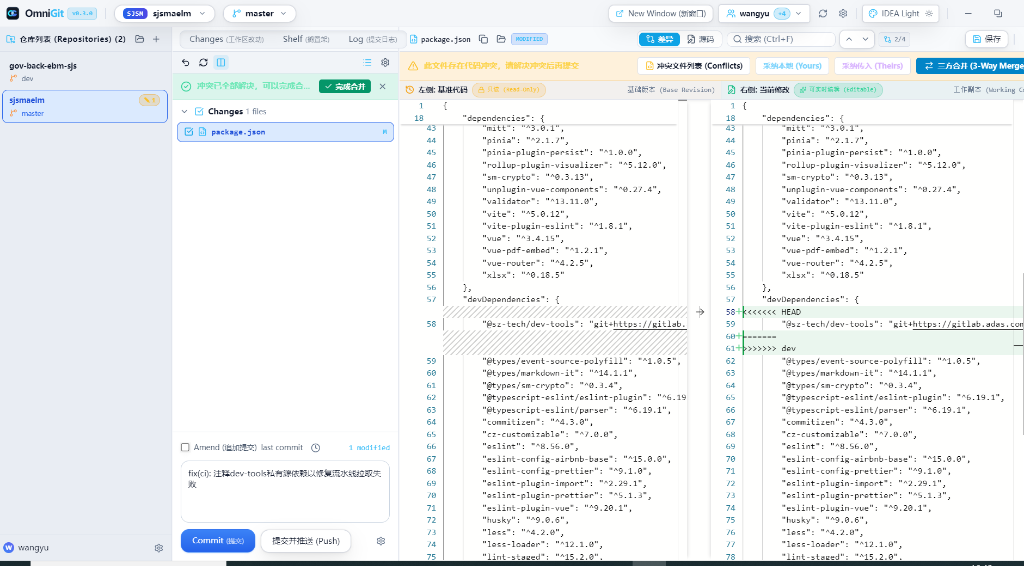
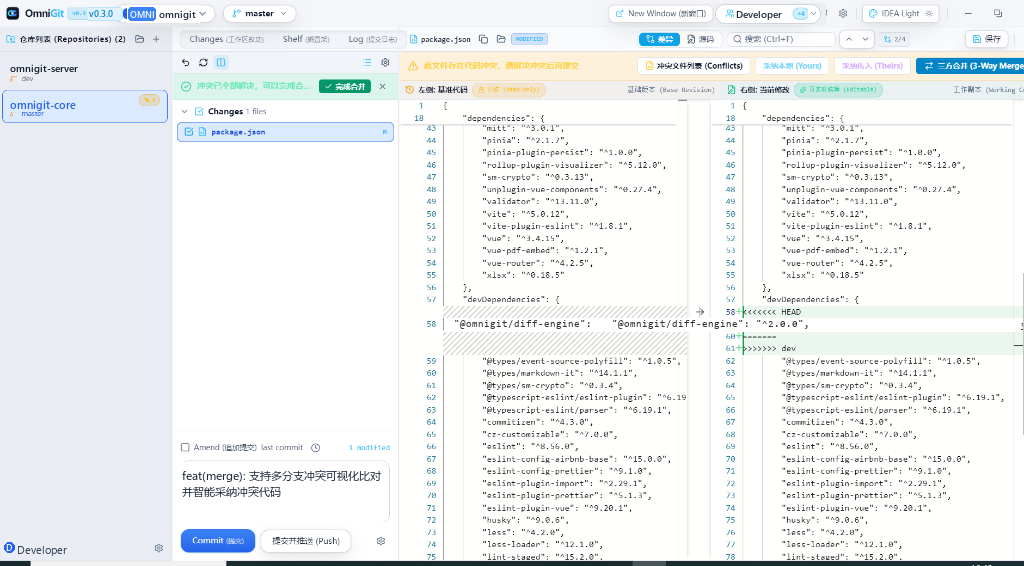
docs: replace internal project names with standard omnigit demo in preview screenshot

diff --git a/scripts/patch_screenshot.py b/scripts/patch_screenshot.py
@@ -1,0 +1,98 @@
+import os
+from PIL import Image, ImageDraw, ImageFont
+
+def patch_screenshot():
+    src_path = 'd:/projects/OmniGit/docs/images/omnigit_workbench_preview.png'
+    im = Image.open(src_path).convert('RGBA')
+
+    # Reusable icons from original image
+    # User icon from top user pill: original at x=722 to 735, y=8 to 19
+    user_icon = im.crop((722, 8, 735, 19))
+    # '+4' badge from user pill: original at x=771 to 789, y=7 to 20
+    badge_plus4 = im.crop((771, 7, 789, 20))
+
+    draw = ImageDraw.Draw(im)
+
+    # Windows Fonts
+    font_segoe_11 = ImageFont.truetype('C:/Windows/Fonts/segoeui.ttf', 11)
+    font_segoe_10 = ImageFont.truetype('C:/Windows/Fonts/segoeui.ttf', 10)
+    font_segoe_bold_11 = ImageFont.truetype('C:/Windows/Fonts/seguisb.ttf', 11)
+    font_segoe_bold_10 = ImageFont.truetype('C:/Windows/Fonts/seguisb.ttf', 10)
+    font_segoe_bold_9 = ImageFont.truetype('C:/Windows/Fonts/seguisb.ttf', 9)
+    font_consola_10 = ImageFont.truetype('C:/Windows/Fonts/consola.ttf', 10)
+    font_yahei_11 = ImageFont.truetype('C:/Windows/Fonts/msyh.ttc', 11)
+
+    TOP_BAR_BG = (237, 238, 242, 255)
+    SIDEBAR_BG = (233, 237, 243, 255)
+    ACTIVE_CARD_BG = (219, 234, 254, 255)
+
+    # =========================================================================
+    # 1. Top Bar: Version Badge (v0.1.0 -> v0.3.0)
+    # =========================================================================
+    draw.rounded_rectangle((86, 7, 122, 20), radius=3, fill=(224, 242, 254, 255), outline=(186, 230, 253, 255))
+    draw.text((89, 7), 'v0.3.0', font=font_segoe_bold_9, fill=(2, 132, 199, 255))
+
+    # =========================================================================
+    # 2. Top Bar: Active Repo Pill (SJSM sjsmaelm -> OMNI omnigit)
+    # =========================================================================
+    draw.rectangle((127, 5, 199, 22), fill=(255, 255, 255, 255))
+    draw.rounded_rectangle((128, 7, 155, 20), radius=3, fill=(59, 130, 246, 255))
+    draw.text((130, 8), 'OMNI', font=font_segoe_bold_9, fill=(255, 255, 255, 255))
+    draw.text((159, 7), 'omnigit', font=font_segoe_bold_10, fill=(30, 41, 59, 255))
+    draw.line([(199, 12), (202, 15), (205, 12)], fill=(148, 163, 184, 255), width=1)
+
+    # =========================================================================
+    # 3. Top Bar: User Pill (wangyu -> Developer)
+    # =========================================================================
+    draw.rectangle((714, 3, 825, 24), fill=TOP_BAR_BG)
+    draw.rounded_rectangle((715, 4, 820, 23), radius=9, fill=(255, 255, 255, 255), outline=(209, 213, 219, 255))
+    im.paste(user_icon, (721, 8), user_icon)
+    draw.text((736, 7), 'Developer', font=font_segoe_bold_10, fill=(30, 41, 59, 255))
+    im.paste(badge_plus4, (790, 7), badge_plus4)
+    draw.line([(811, 12), (813, 14), (815, 12)], fill=(148, 163, 184, 255), width=1)
+
+    # =========================================================================
+    # 4. Left Sidebar: Repo 1 (gov-back-ebm-sjs -> omnigit-server)
+    # =========================================================================
+    draw.rectangle((8, 60, 140, 75), fill=SIDEBAR_BG)
+    draw.text((10, 61), 'omnigit-server', font=font_segoe_bold_10, fill=(15, 23, 42, 255))
+
+    # =========================================================================
+    # 5. Left Sidebar: Repo 2 Active Card (sjsmaelm -> omnigit-core)
+    # =========================================================================
+    draw.rectangle((8, 96, 115, 111), fill=ACTIVE_CARD_BG)
+    draw.text((10, 97), 'omnigit-core', font=font_segoe_bold_11, fill=(37, 99, 235, 255))
+
+    # =========================================================================
+    # 6. Left Sidebar: Bottom User Profile (wangyu -> Developer)
+    # =========================================================================
+    draw.rectangle((1, 538, 75, 558), fill=SIDEBAR_BG)
+    draw.ellipse((4, 542, 14, 552), fill=(37, 99, 235, 255))
+    draw.text((6, 541), 'D', font=font_segoe_bold_9, fill=(255, 255, 255, 255))
+    draw.text((17, 542), 'Developer', font=font_segoe_11, fill=(51, 65, 85, 255))
+
+    # =========================================================================
+    # 7. Commit Message Textarea
+    # =========================================================================
+    draw.rectangle((175, 462, 382, 522), fill=(255, 255, 255, 255))
+    draw.text((182, 468), 'feat(merge): 支持多分支冲突可视化比对', font=font_yahei_11, fill=(30, 41, 59, 255))
+    draw.text((182, 484), '并智能采纳冲突代码', font=font_yahei_11, fill=(30, 41, 59, 255))
+
+    # =========================================================================
+    # 8. Diff Editor: Line 58/59 Conflict code
+    # =========================================================================
+    # Left pane line 58: clear white strip from x=444 all the way to x=684
+    draw.rectangle((444, 318, 684, 331), fill=(255, 255, 255, 255))
+    draw.text((454, 319), '"@omnigit/diff-engine": "^1.2.0",', font=font_consola_10, fill=(50, 50, 50, 255))
+
+    # Right pane line 59: full white strip from x=591 to 1020, y=318 to 331
+    draw.rectangle((591, 318, 1020, 331), fill=(255, 255, 255, 255))
+    draw.text((612, 319), '"@omnigit/diff-engine": "^2.0.0",', font=font_consola_10, fill=(50, 50, 50, 255))
+
+    # Overwrite destination file
+    dst_path = 'd:/projects/OmniGit/docs/images/omnigit_workbench_preview.png'
+    im.save(dst_path)
+    print(f'Successfully updated {dst_path}')
+
+if __name__ == '__main__':
+    patch_screenshot()
